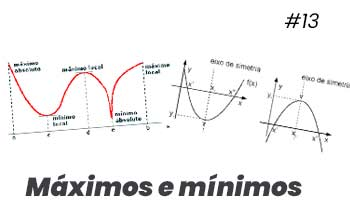
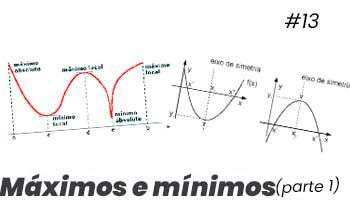
class 14, 15, 16 & 17 math and class 16 introProg added

Changed region(s): [[0.0, 0.87, 0.9714, 0.99]]

diff --git a/index.js b/index.js
@@ -222,7 +222,7 @@ app.get('/', (req, res) => {
                     "card": {
                         "id": 13,
                         "cardHeader": {
-                            "title": "Máximos e mínimos - Aula 13"
+                            "title": "Máximos e mínimos (parte 1) - Aula 13"
                         },
                         "cardBody": {
                             "imgSrc": "/public/images/thumbl/calculo/aula13.jpg",
@@ -232,6 +232,74 @@ app.get('/', (req, res) => {
                         },
                         "theaterMode": {
                             "iframe": "sIVtLtN1TuY"
+                        }
+                    }
+                },
+                {
+                    "card": {
+                        "id": 14,
+                        "cardHeader": {
+                            "title": "Máximos e mínimos (parte 2) - Aula 14"
+                        },
+                        "cardBody": {
+                            "imgSrc": "/public/images/thumbl/calculo/aula14.jpg",
+                            "imgAlt": "Cálculo",
+                            "date": "19/05/21",
+                            "aHref": "https://youtu.be/D68d_StWlJw"
+                        },
+                        "theaterMode": {
+                            "iframe": "D68d_StWlJw"
+                        }
+                    }
+                },
+                {
+                    "card": {
+                        "id": 15,
+                        "cardHeader": {
+                            "title": "Esboço de gráficos (parte 1) - Aula 15"
+                        },
+                        "cardBody": {
+                            "imgSrc": "/public/images/thumbl/calculo/aula15.jpg",
+                            "imgAlt": "Cálculo",
+                            "date": "24/05/21",
+                            "aHref": "https://youtu.be/h2qQ6uKbJtc"
+                        },
+                        "theaterMode": {
+                            "iframe": "h2qQ6uKbJtc"
+                        }
+                    }
+                },
+                {
+                    "card": {
+                        "id": 16,
+                        "cardHeader": {
+                            "title": "Esboço de gráficos (parte 2) - Aula 16"
+                        },
+                        "cardBody": {
+                            "imgSrc": "/public/images/thumbl/calculo/aula16.jpg",
+                            "imgAlt": "Cálculo",
+                            "date": "26/05/21",
+                            "aHref": "https://youtu.be/Y4IgMK5-nRc"
+                        },
+                        "theaterMode": {
+                            "iframe": "Y4IgMK5-nRc"
+                        }
+                    }
+                },
+                {
+                    "card": {
+                        "id": 17,
+                        "cardHeader": {
+                            "title": "Problemas de otimização - Aula 17"
+                        },
+                        "cardBody": {
+                            "imgSrc": "/public/images/thumbl/calculo/aula17.jpg",
+                            "imgAlt": "Cálculo",
+                            "date": "31/05/21",
+                            "aHref": "https://youtu.be/bi5A5QAInks"
+                        },
+                        "theaterMode": {
+                            "iframe": "bi5A5QAInks"
                         }
                     }
                 }
@@ -839,6 +907,23 @@ app.get('/', (req, res) => {
                         },
                         "theaterMode": {
                             "iframe": "TPWhE-dMc98"
+                        }
+                    }
+                },
+                {
+                    "card": {
+                        "id": 16,
+                        "cardHeader": {
+                            "title": "Resolução de exercícios para a segunda prova - Aula 16"
+                        },
+                        "cardBody": {
+                            "imgSrc": "/public/images/thumbl/introProg/aula16.jpg",
+                            "imgAlt": "Introdução a Programação",
+                            "date": "25/05/21",
+                            "aHref": "https://youtu.be/rJg0HbxYUVA"
+                        },
+                        "theaterMode": {
+                            "iframe": "rJg0HbxYUVA"
                         }
                     }
                 }
